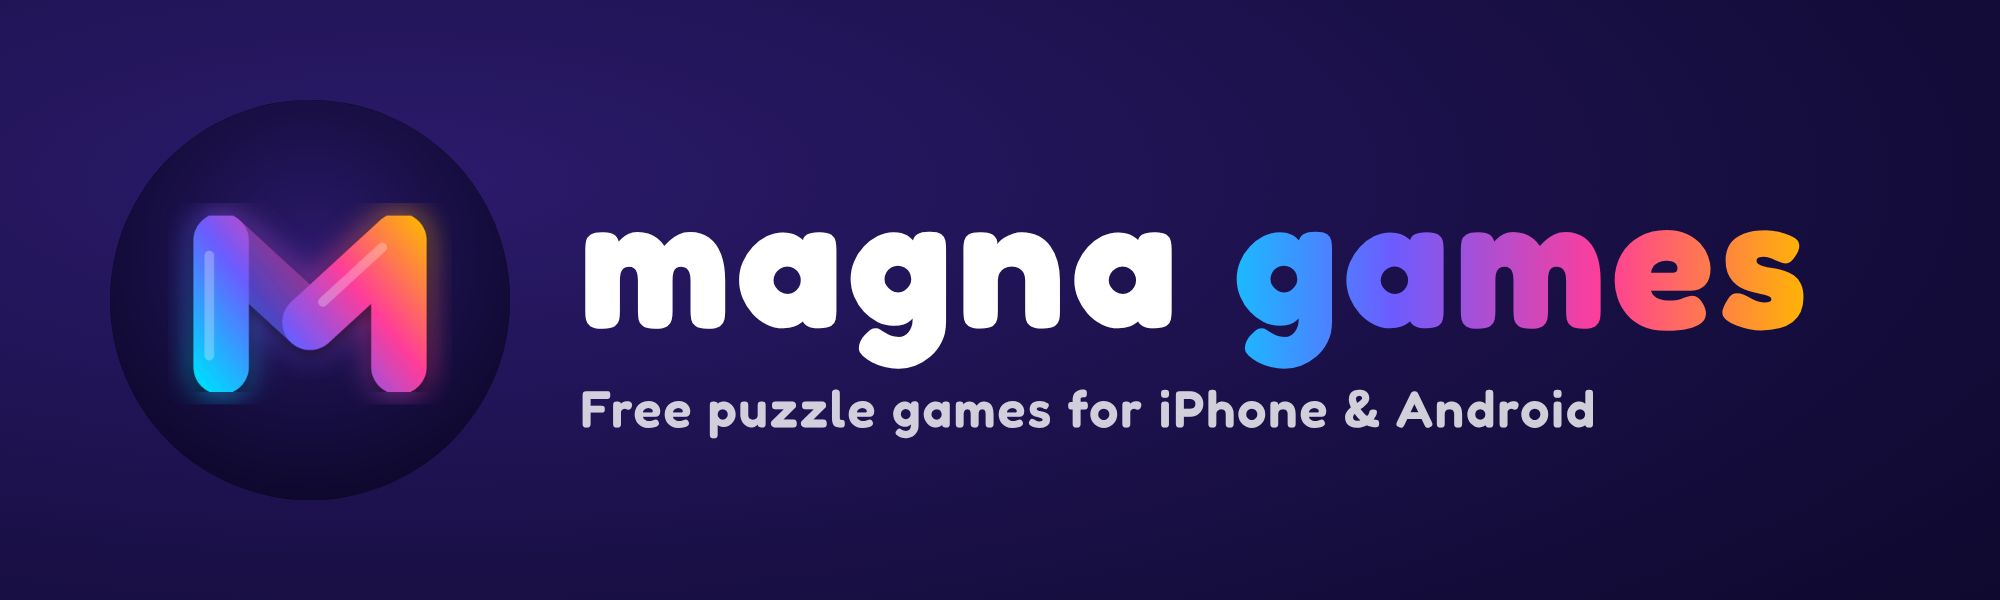
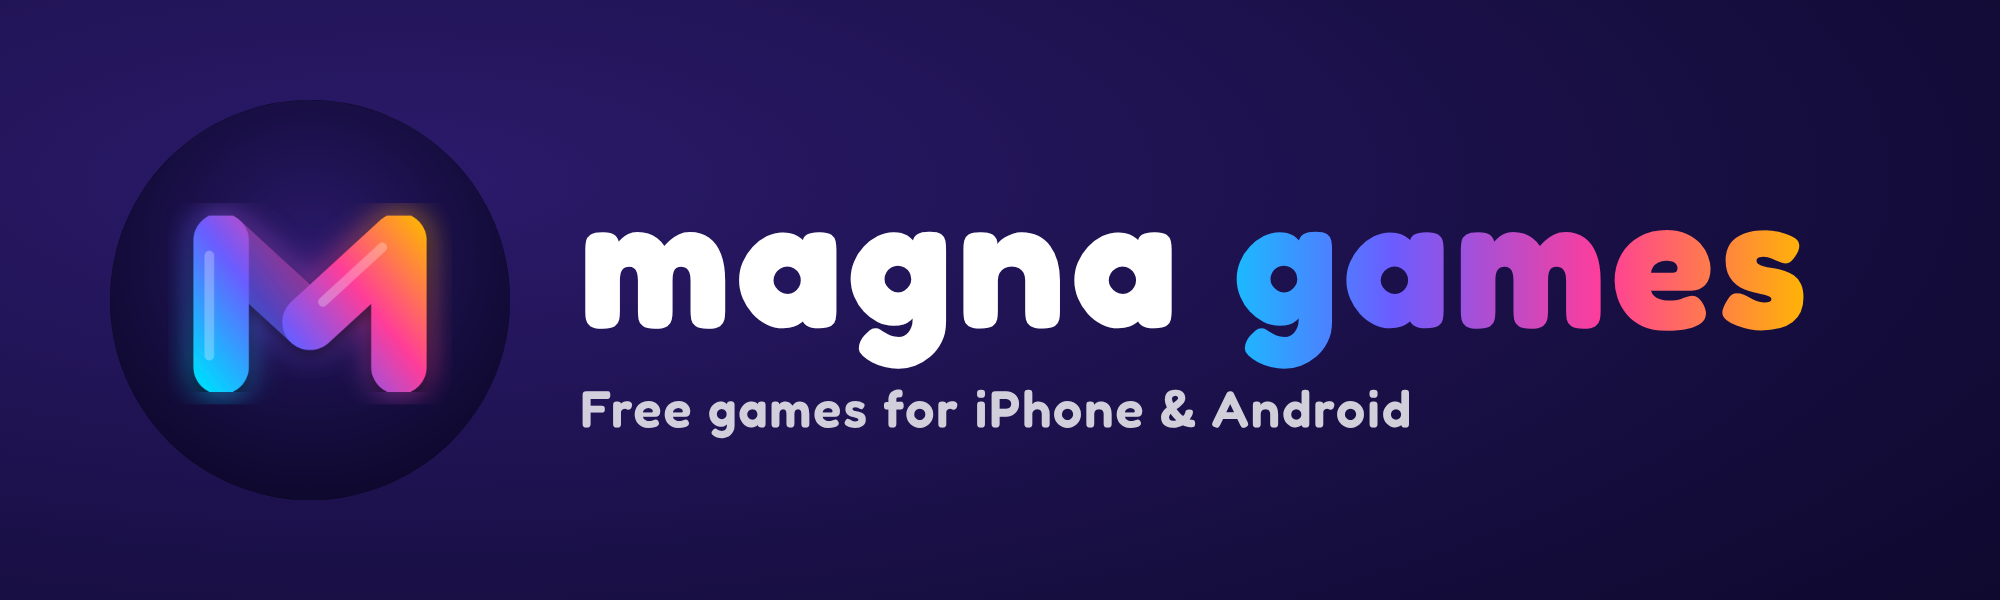
Brand without 'puzzle'
Claude-Session: https://claude.ai/code/session_01PoJLX1Xw7BJ3MTgJRYjKyV

Changed region(s): [[0.341, 0.63, 0.806, 0.75]]

diff --git a/games/index.html b/games/index.html
@@ -3,9 +3,9 @@
 <head>
 <meta charset="utf-8">
 <meta name="viewport" content="width=device-width, initial-scale=1">
-<title>Magna Games – free puzzle games</title>
-<meta name="description" content="Truckzy, Knotsy and Unarrow – free offline puzzle games for iPhone and Android.">
-<meta property="og:title" content="Magna Games – free puzzle games">
+<title>Magna Games – free games</title>
+<meta name="description" content="Truckzy, Knotsy and Unarrow – free games for iPhone and Android.">
+<meta property="og:title" content="Magna Games – free games">
 <meta property="og:image" content="https://safetcosovic.github.io/unarrow-privacy/games/avatar.png">
 <style>
   :root { --bg1:#7b5cff; --bg2:#d0509a; --card:#ffffff; --ink:#1b1446; --muted:#5b5680; }
@@ -33,7 +33,7 @@
   <header>
     <img src="avatar.png" alt="Magna Games">
     <h1>Magna Games</h1>
-    <p>Free offline puzzle games 🧩</p>
+    <p>Free games for iPhone &amp; Android 🎮</p>
   </header>
 
   <section class="game">
